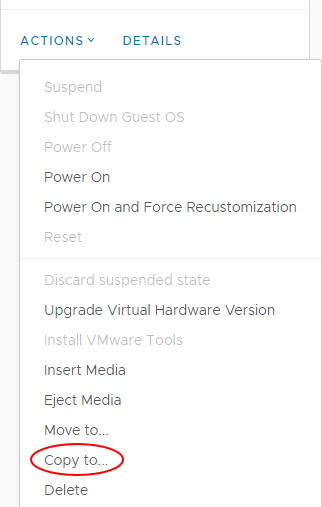
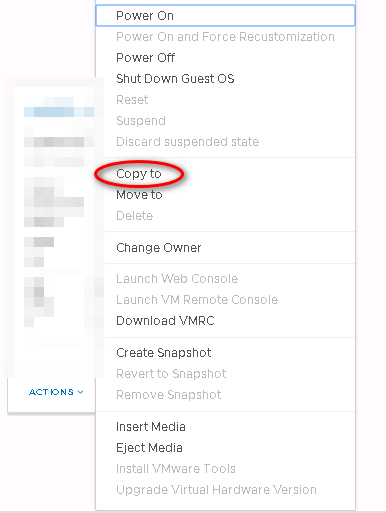
Update data recovery options
Update with new screenshots
Add info about Journaling Protection

diff --git a/articles/vmware/vmw-ref-vm-data-recovery.md b/articles/vmware/vmw-ref-vm-data-recovery.md
@@ -2,9 +2,9 @@
 title: Virtual machine data recovery options
 description: Provides an overview of the data recovery options available for your VMs
 services: vmware
-author: Sue Highmoor
-reviewer:
-lastreviewed: 19/07/2018 12:45:48
+author: shighmoor
+reviewer: jpaddock
+lastreviewed: 28/06/2021
 toc_rootlink: Reference
 toc_sub1: 
 toc_sub2:
@@ -19,13 +19,15 @@ toc_mdlink: vmw-ref-vm-data-recovery.md
 
 ## Introduction
 
-There are three methods of creating a recovery point for your virtual machines (VMs):
+There are four methods of creating a recovery point for your virtual machines (VMs):
 
 - VM snapshot - provides the ability to rollback or recover from a change. We recommend that snapshots on a single VM do not span more than 14 days for performance reasons elaborated on below.
 
 - VM copy - creates a master image to clone additional VMs from an existing VM.
 
 - VM backup - provides disaster recovery from file corruption or deletion.
+
+- Journaling Protection - provides a self-service replication and recovery tool utilising journals to capture changes.
 
 Each of these methods is discussed below to ensure that you are able to backup and recover your data in the most efficient and appropriate way.
 
@@ -81,7 +83,7 @@ In the card for the VM that you want to copy, select **Actions** then **Copy to*
 
 You should view backup as a disaster recovery mechanism, whereby you can restore entire environments or individual files in the event of the original becoming unavailable as a result of corruption or accidental deletion.
 
-You can add any VM to the automated snapshot backup schedule so that it is automatically backed up on a daily basis. You can choose to retain snapshot backups for either 14 or 28 days. Data is backed up at the hypervisor level and provides a crash‑consistent image.
+You can add any VM to the automated snapshot backup schedule so that it is automatically backed up on a daily basis (Snapshot Protection). You can choose to retain snapshot backups for either 14 or 28 days. Data is backed up at the hypervisor level and provides a crash‑consistent image.
 
 ### Use case
 
@@ -98,6 +100,28 @@ Time taken for a restoration request to be completed (dependent on the amount of
 ### How to add a VM to the automated snapshot backup schedule
 
 For information about how to add a VM to the automated backup schedule, see [*How to manage snapshot protection for your VMs*](vmw-how-manage-snapshot-protection.md).
+
+## Journaling Protection
+
+A disaster recovery mechanism, which utilises a journal to capture changes that take place within a vApp. The contents of the journal are stored in a different UKCloud region.
+
+![Journaling process](images/vmw-zerto-journaling.png)
+
+### Use case
+
+In the event of a disruption to service &ndash; either at the service provider level (loss of infrastructure) or something localised to the application (ransomware attack, problematic software upgrade), you can recover the VMs into your recovery site, either with minimal data loss or to a specified point in time.
+
+### Pros
+
+The journal can span up to 28 days of a VM's history, with recovery points just seconds apart, allowing for a near zero recovery point objective (RPO). Journaling Protection provides self-service recovery and disaster recovery testing via the fully-featured portal.
+
+### Cons
+
+Journaling Protection is not a managed service, so it's the customer's responsibility to manage the service via the portal.
+
+### How to set up Journaling Protection
+
+For information about how to set up Journaling Protection, see the [*Getting Started Guide for Journaling Protection*](vmw-gs-journaling.md).
 
 ## Feedback
 
